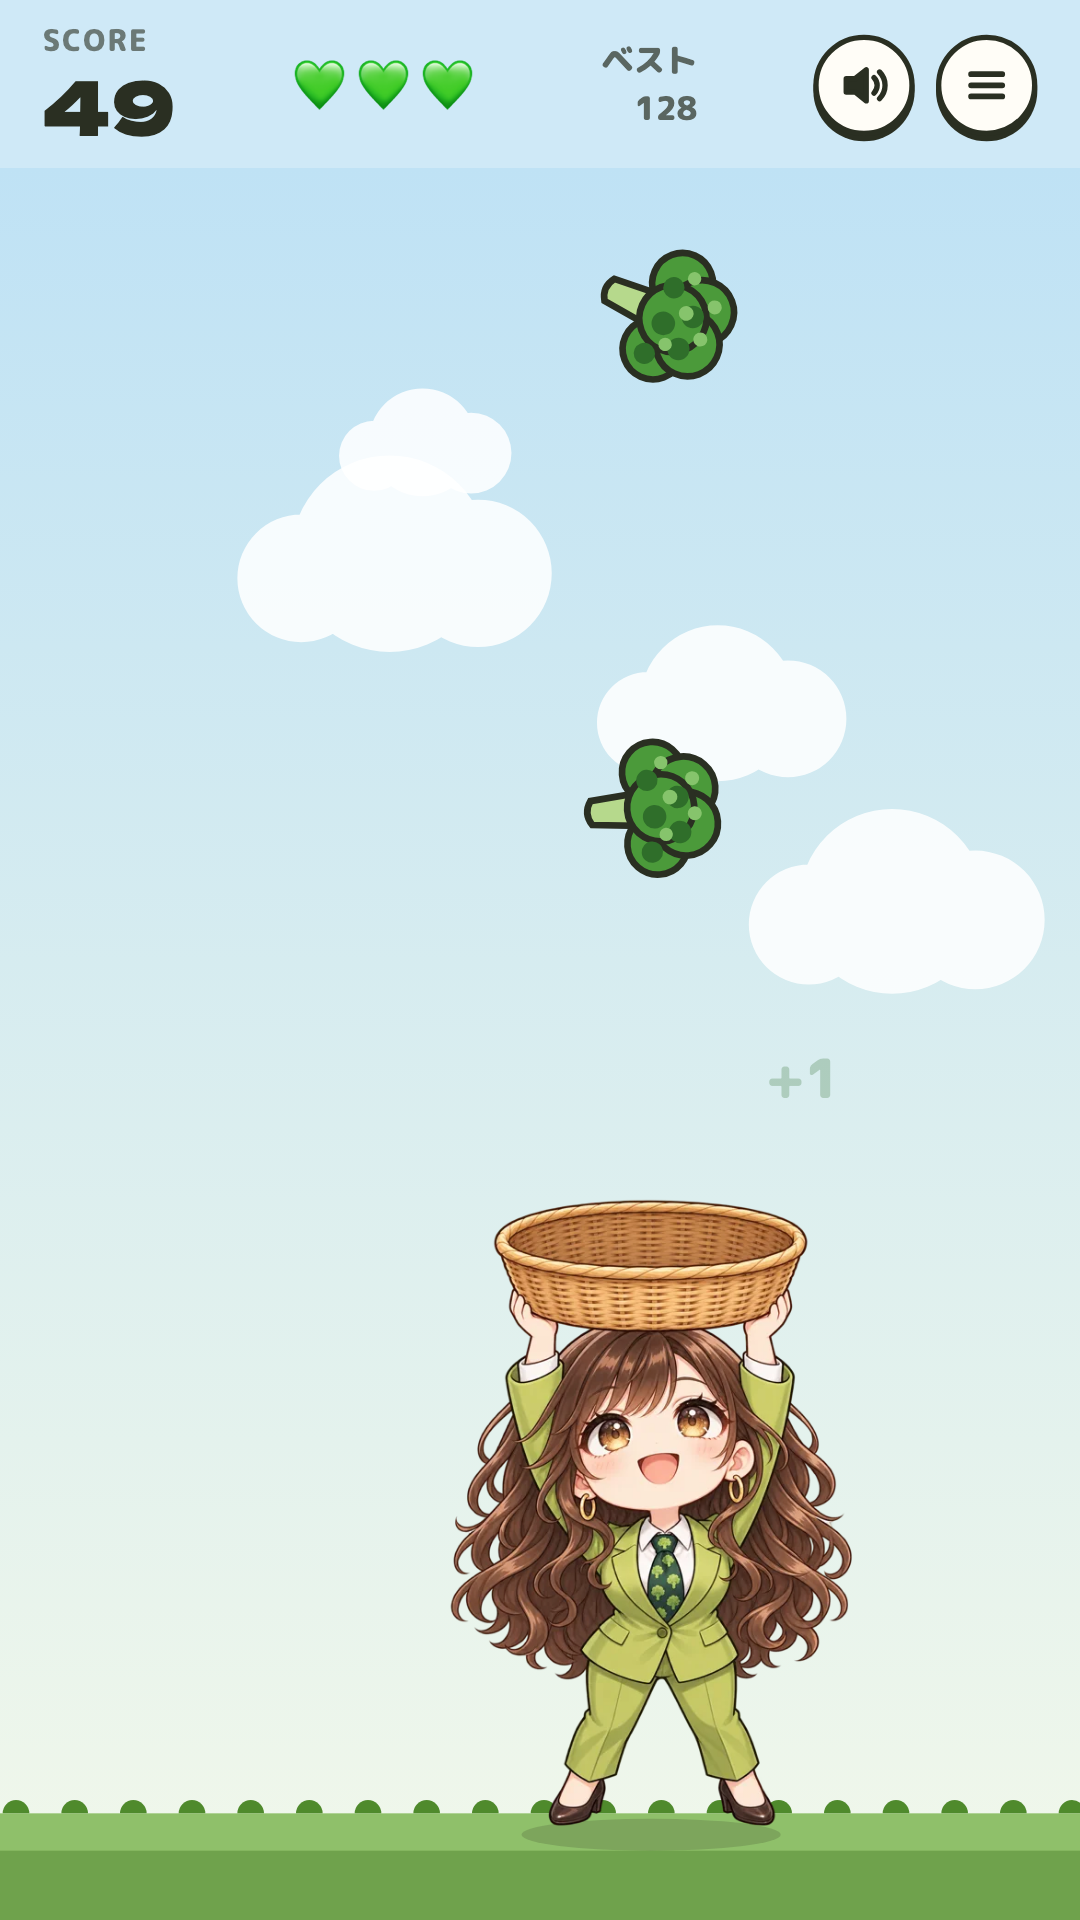
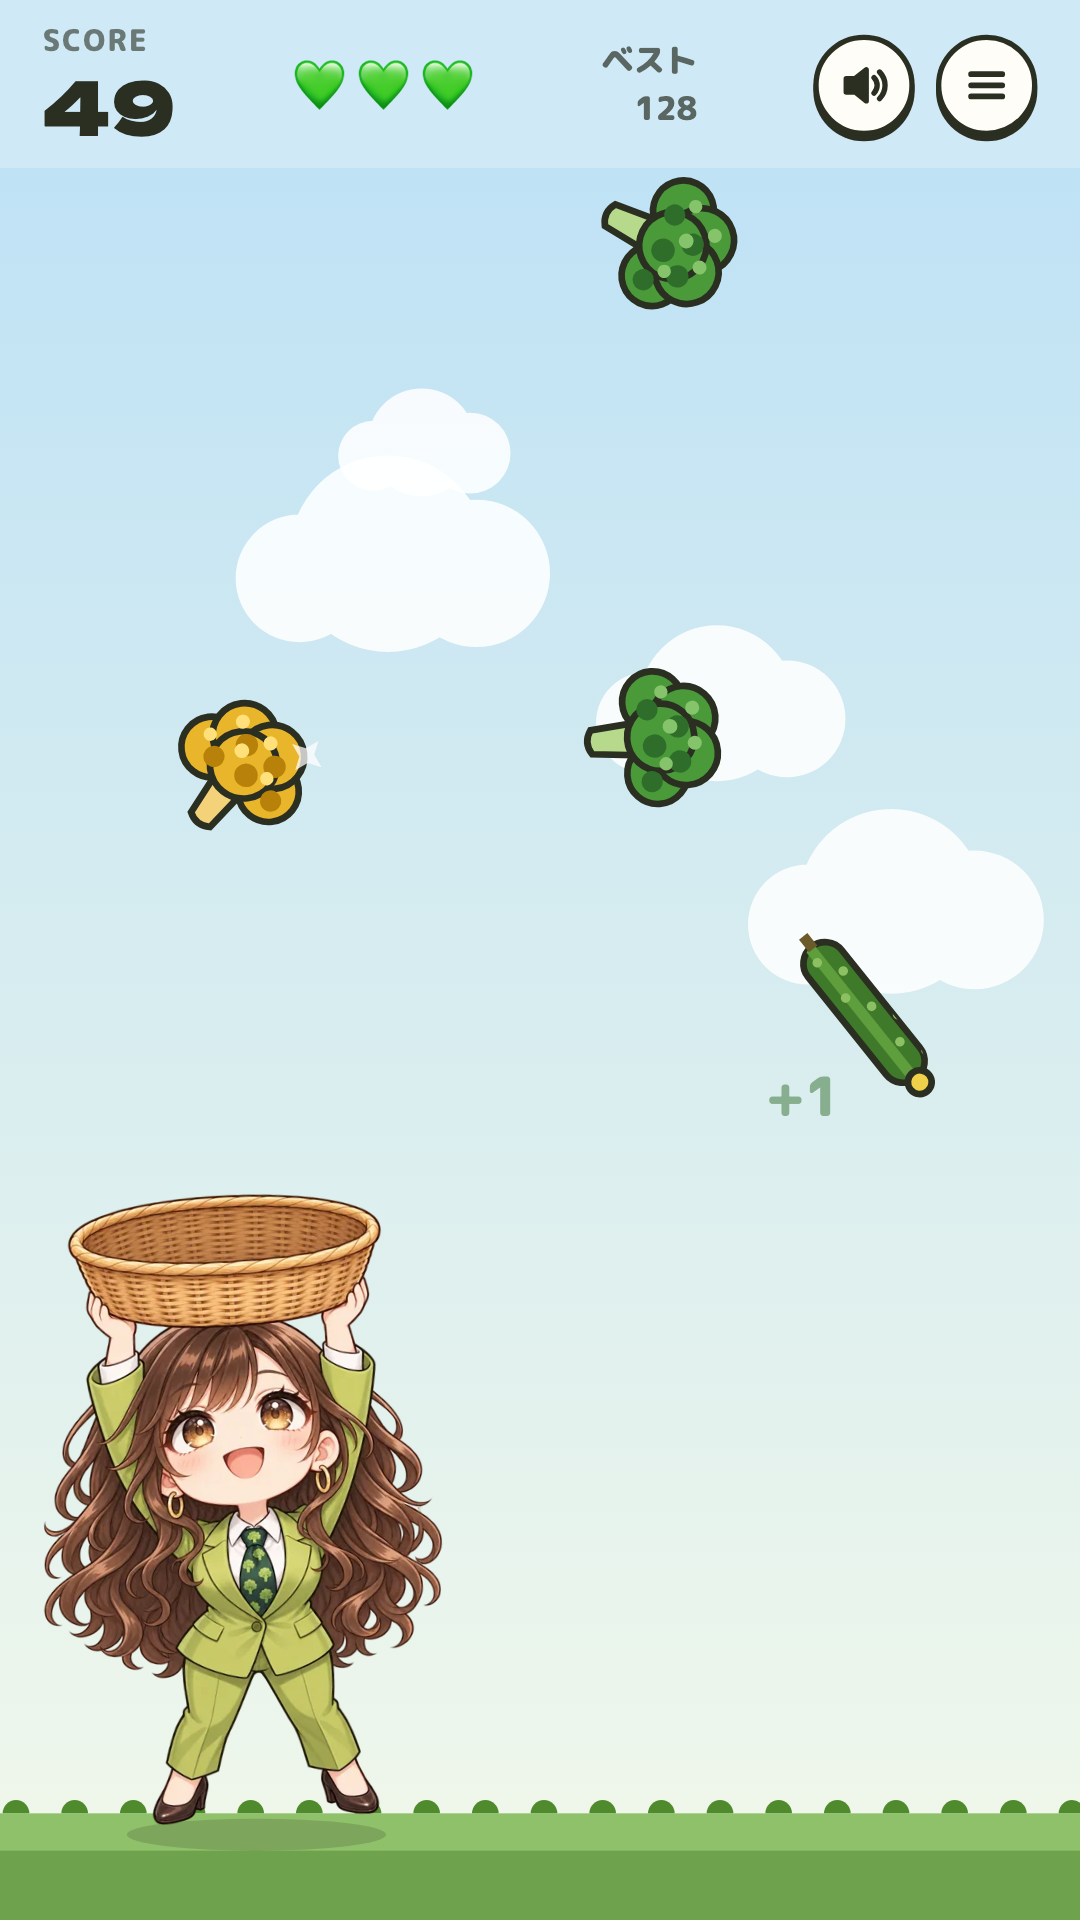
Show a gold broccoli and a cucumber in the third store screenshot
The two play screenshots looked alike; the third now has a gold
broccoli (+5) and a cucumber (-1) falling. Four screenshots are kept
(Google Play recommends at least four for games).

diff --git a/docs/ANDROID.md b/docs/ANDROID.md
@@ -185,6 +185,6 @@ JAVA_HOME=~/Library/Java/JavaVirtualMachines/jbr-21.0.11/Contents/Home ./gradlew
 ## 7. Google Play のストア用画像（2026-10-17）
 - 置き場所：`design/store/`（アプリには入らない）。`node scripts/make-store-images.mjs` で作り直せる（乱数を固定しているので、ゲームを変えなければ同じ画像になる）。
 - `feature-graphic.png`：フィーチャーグラフィック（1024×500、透明なし）。タイトル・説明文・キャラクター（`up.webp`）・ゲームと同じ絵のブロッコリーなど。
-- `screenshot-1〜4.png`：スマホのスクリーンショット（1080×1920、縦横比 9:16、透明なし）。タイトル・プレイ中×2・結果画面。Web 版を、幅 405px のスマホとして撮影している（バナー広告は写らない）。
+- `screenshot-1〜4.png`：スマホのスクリーンショット（1080×1920、縦横比 9:16、透明なし）。タイトル・プレイ中・プレイ中（金のブロッコリーときゅうり）・結果画面。説明の文字は入れない（オーナー方針）。Web 版を、幅 405px のスマホとして撮影している（バナー広告は写らない）。
 - `icon-512.png`：アプリのアイコン（512×512。`assets/icons/icon-512.png` と同じ）。
 - Google Play の条件（2026-10 時点の理解）：フィーチャーグラフィックは 1024×500 の JPEG か PNG（透明なし）。スクリーンショットは JPEG か PNG（透明なし）、辺は 320〜3840px、長い辺は短い辺の2倍まで（実機の 1080×2400 は 2.2倍なので、そのままでは使えない）。スマホのスクリーンショットは2〜8枚。アイコンは 512×512 の PNG（1MB まで）。
